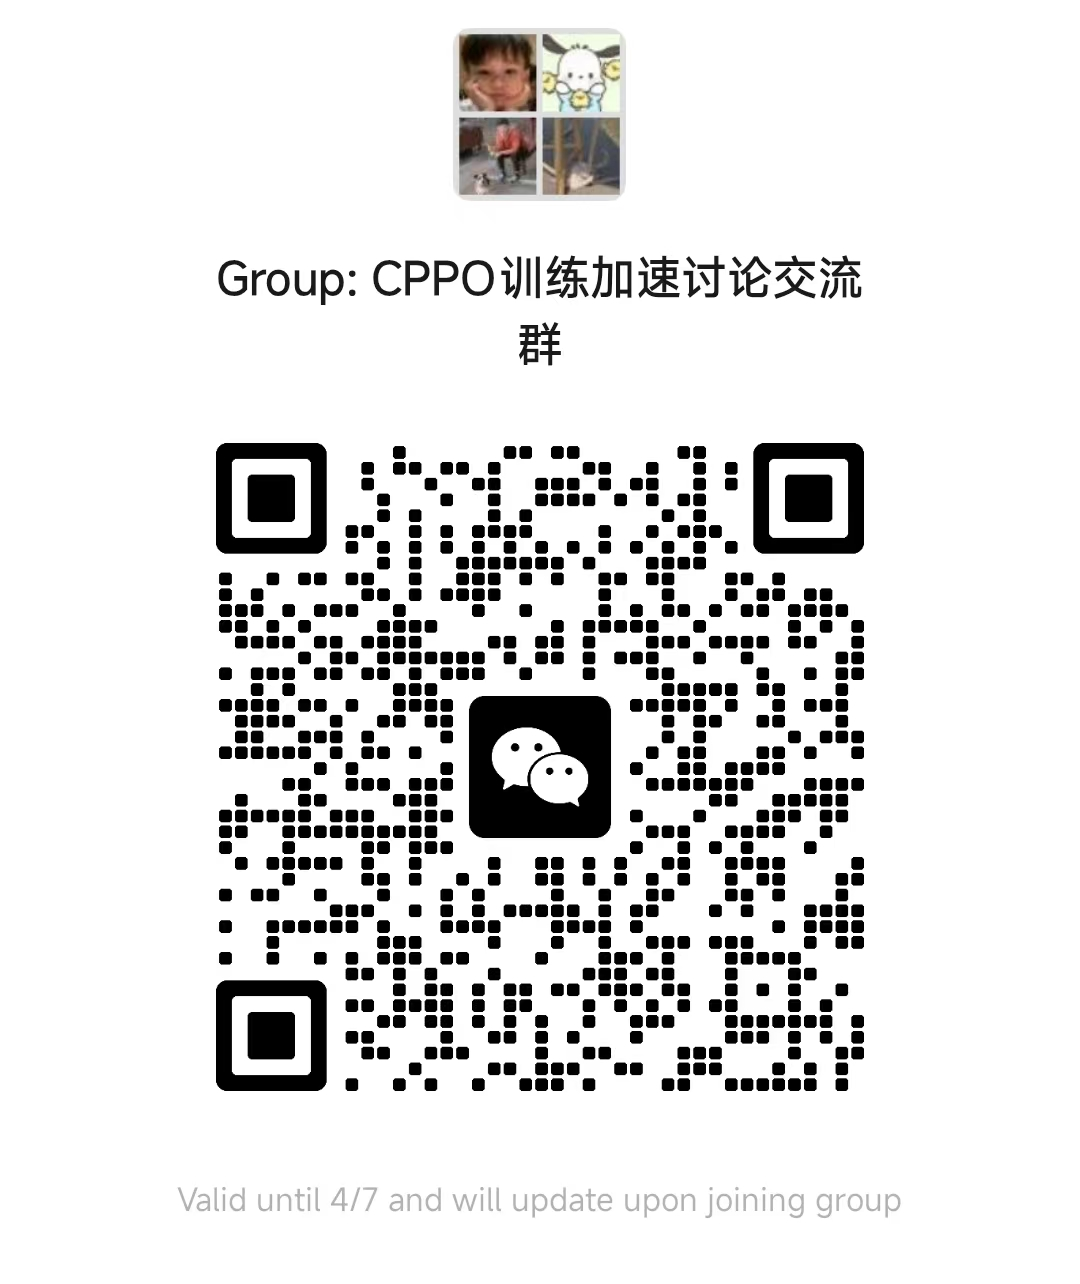
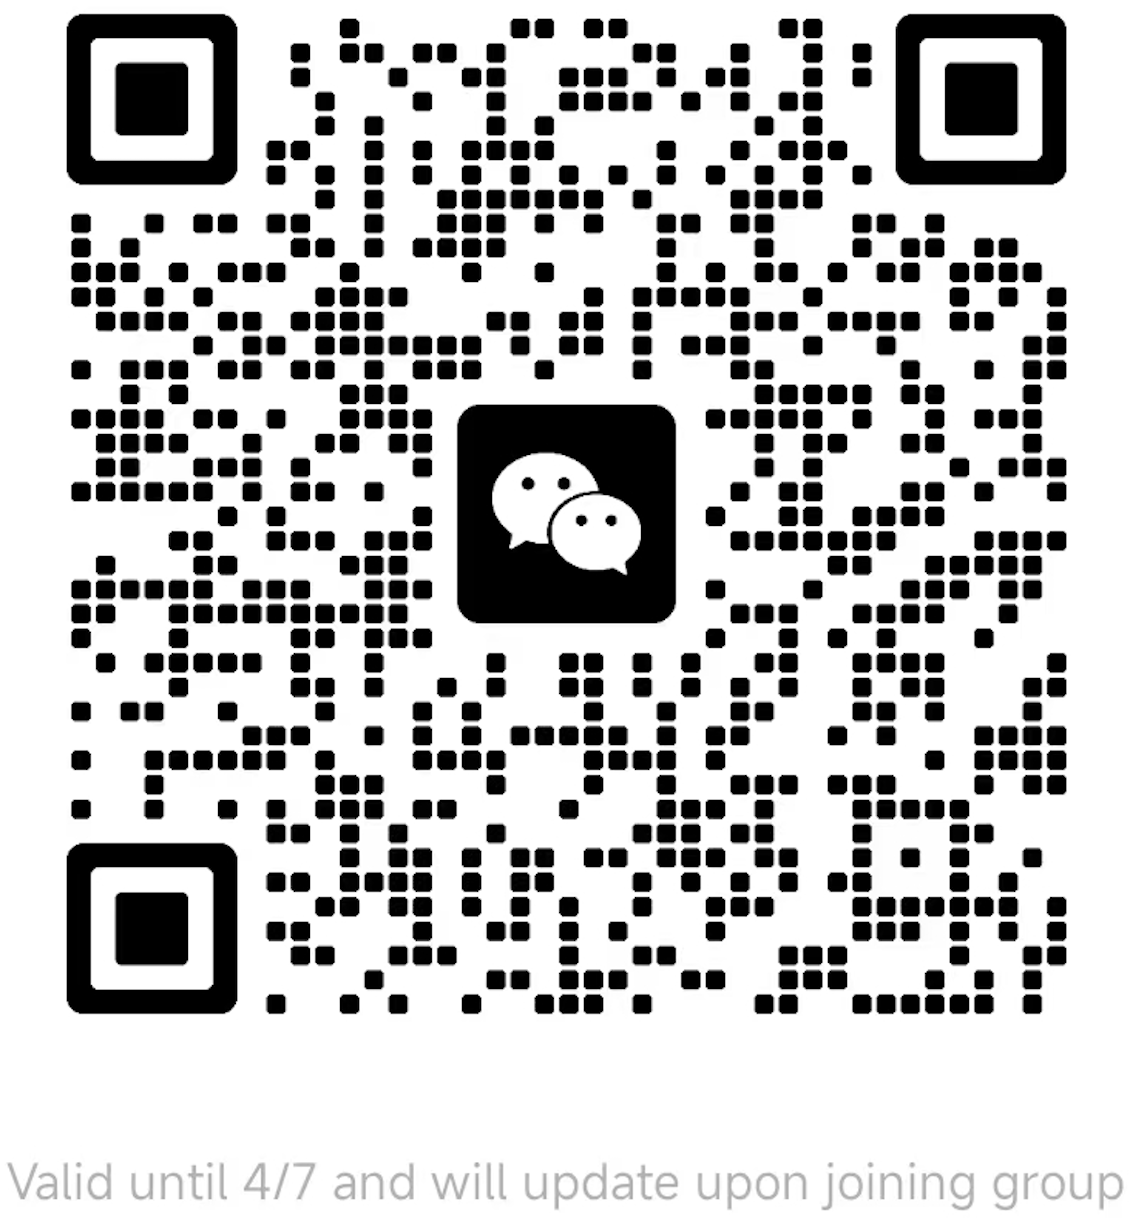
readme wechat

diff --git a/README.md b/README.md
@@ -3,9 +3,7 @@
 
 <p align="center">
 CPPO-1.5B-n-16-0.875 <a href="https://huggingface.co/Stardust1956/CPPO-1.5B-n-16-0.875">🤗</a> <br>
-<a href="https://arxiv.org/abs/2503.22342"> <img src='https://img.shields.io/badge/arXiv-2503.22342-b31b1b.svg'></a> <br> Wechat <a href="./asset/wechat.jpg">💭</a> <br>
-
-<img src="./asset/wechat.jpg" width="300">
+<a href="https://arxiv.org/abs/2503.22342"> <img src='https://img.shields.io/badge/arXiv-2503.22342-b31b1b.svg'></a> <br> Wechat <a href="#discussion">💭</a> <br>
 
 <div align="center">
     <h2>If you like CPPO, pls give us a star⭐ </h2>
@@ -78,3 +76,7 @@ We are very grateful to the [Open R1](https://github.com/huggingface/open-r1) te
       url={https://arxiv.org/abs/2503.22342}, 
 }
 ```
+
+## Discussion
+If you are interested in this project, please feel free to join our Wechat group for discussion.
+<img src="./asset/wechat.jpg" width="300">
